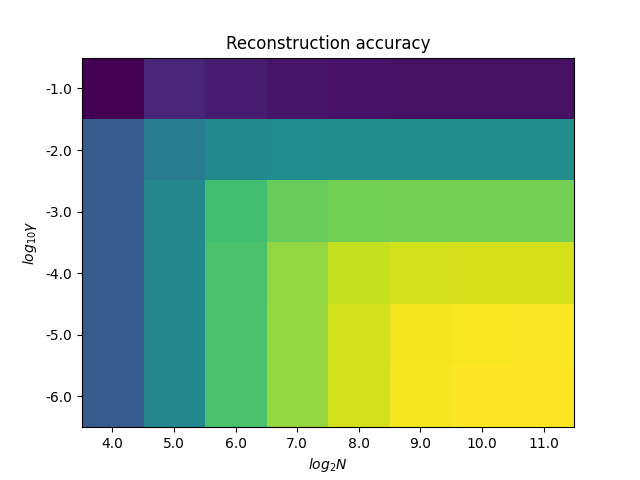
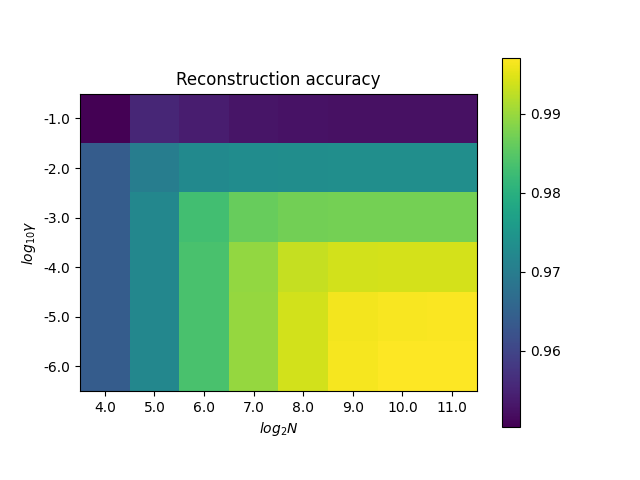
finishing work related to scripts for the relationship between Fourier coefficients and the windowing function

diff --git a/scripts/coefficients_fn.py b/scripts/coefficients_fn.py
@@ -48,6 +48,7 @@ plt.xticks(ticks=np.arange(len(test_fre)), labels=np.log2(test_fre))
 plt.xlabel('$log_2N$')
 plt.ylabel('$log_{10}\gamma$')
 plt.title('Reconstruction accuracy')
+plt.colorbar()
 plt.savefig('int_coeff_gamma.png')
 
 dat_clean = dat[idx].copy()
@@ -83,10 +84,9 @@ for ii in range(len(test_gma)):
 plt.imshow(results_mat,origin='upper')
 plt.yticks(ticks=np.arange(len(test_gma)), labels=np.log10(test_gma))
 plt.xticks(ticks=np.arange(len(test_fre)), labels=np.log2(test_fre))
-
 plt.xlabel('$log_2N$')
 plt.ylabel('$log_{10}\gamma$')
-plt.title('External reconstruction accuracy, $20\%$ contiguous block')
+plt.title('External reconstruction accuracy')
 plt.savefig('ext_coeff_gamma.png')
 
 
